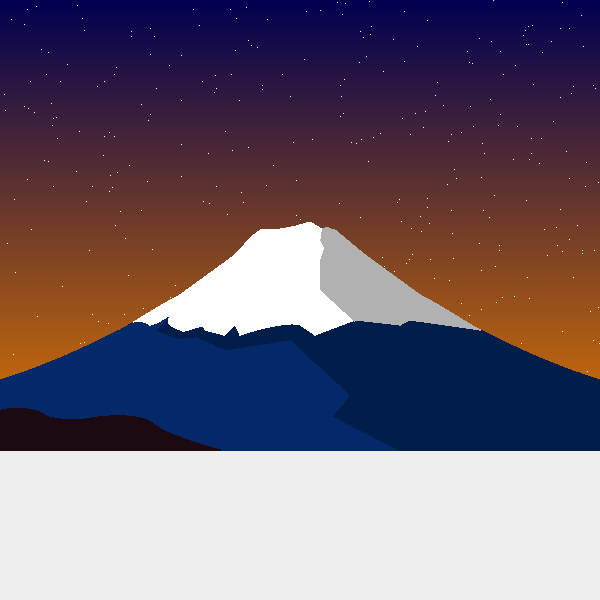
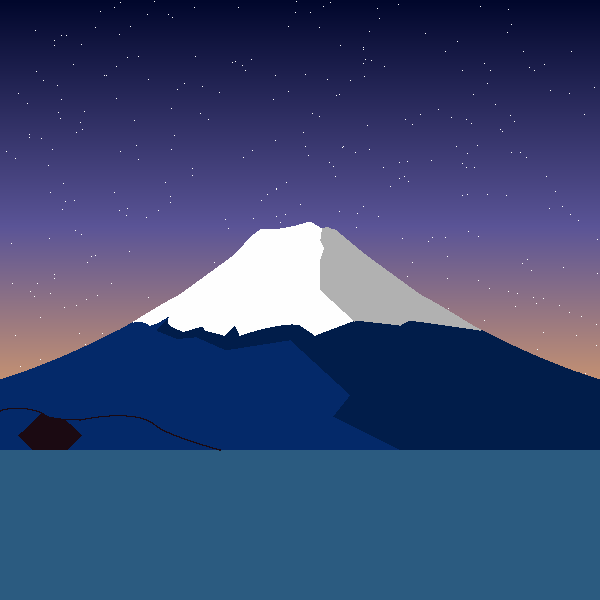
fix GradientFill

diff --git a/NewYear.java b/NewYear.java
@@ -20,13 +20,12 @@ public class NewYear extends JPanel implements MouseListener{
     private static int panelWidth = 600;
     private static int panelHeight = 600;
     private static BufferedImage canvas;
-    //DeleteLalter
-    private static int X = 0;
-    private static int Y = 0;
+
     //DeleteLalter
     NewYear(){
         addMouseListener(this);
     }
+    
     public static void main(String[] args) {
         JFrame f = new JFrame();
         NewYear ny = new NewYear();
@@ -58,7 +57,6 @@ public class NewYear extends JPanel implements MouseListener{
     private void paintImage() {
         canvas = new BufferedImage(panelWidth, panelHeight, BufferedImage.TYPE_INT_ARGB);
         Graphics2D g = canvas.createGraphics();
-
         paintBackground(g);
         paintStar(g);
         paintWater(g);
@@ -67,7 +65,8 @@ public class NewYear extends JPanel implements MouseListener{
     }
 
     private void paintBackground(Graphics g){
-        gradientFill(g, 0, 0, panelWidth, 450, ColorEnum.DAWNSKY.getColor(), ColorEnum.SUNRISE.getColor(), 'V');
+        gradientFill(g, 0, 0, panelWidth, 225, ColorEnum.DARKSKY.getColor(), ColorEnum.MIDDLESKY.getColor(), 'V');
+        gradientFill(g, 0, 225, panelWidth, 450, ColorEnum.MIDDLESKY.getColor(), ColorEnum.SUNRISE.getColor(), 'V');
     }
     
     private void paintStar(Graphics g) {
@@ -84,7 +83,7 @@ public class NewYear extends JPanel implements MouseListener{
     private void paintWater(Graphics2D g) {
         g.setColor(ColorEnum.WATER.getColor());
         drawLine(g,0,450,panelWidth,450);
-        floodFill(g, panelWidth/2, 451, ColorEnum.SKY.getColor(), ColorEnum.WATER.getColor());
+        floodFill(g, panelWidth/2, 451, null, ColorEnum.WATER.getColor());
     }
 
     private void paintFuji(Graphics2D g) {
@@ -109,7 +108,7 @@ public class NewYear extends JPanel implements MouseListener{
         drawCurve(g, 420, 295, 440, 305, 470, 325, 480, 330);
         drawCurve(g, 480, 330, 500, 340, 530, 355, 570, 370);
         drawCurve(g, 570, 370, 570, 370, 600, 380, 600, 380);
-        floodFillBorder(g, panelWidth/2, 340, new Color[]{ColorEnum.SNOW.getColor(),ColorEnum.FUJI.getColor(),ColorEnum.FUJI.getColor().brighter()}, ColorEnum.FUJI.getColor());
+        floodFillBorder(g, panelWidth/2, 340, new Color[]{ColorEnum.WATER.getColor(), ColorEnum.SNOW.getColor(),ColorEnum.FUJI.getColor(),ColorEnum.FUJI.getColor().brighter()}, ColorEnum.FUJI.getColor());
     }
 
     private void drawSnow(Graphics2D g) {
@@ -139,7 +138,7 @@ public class NewYear extends JPanel implements MouseListener{
         fillTriangle(g, 165, 340, 196, 337, 230, 352);
         fillTriangle(g, 220, 351, 290, 340, 350, 395);
         fillTriangle(g, 350, 395, 330, 420, 305, 370);
-        fillTriangle(g, 330, 415, 400, 451, 325, 451);
+        fillTriangle(g, 330, 415, 400, 450, 325, 450);
         floodFill(g, 120, 385, ColorEnum.FUJI.getColor(), ColorEnum.FUJI.getColor().brighter());
 
         //Upper Snow
@@ -167,58 +166,6 @@ public class NewYear extends JPanel implements MouseListener{
     //==================================================================================
     //==================================================================================
 
-    private void drawCurve(Graphics g, int[] x, int[] y){
-        drawCurve(g, x[0], y[0], x[1], y[1], x[2], y[2], x[3], y[3]);
-    }
-    private void drawCurve(Graphics g, int x1,int y1,int x2,int y2, int x3,int y3, int x4,int y4){
-        float sampleAmnt = 100000;
-        for (int i = 0; i < sampleAmnt; i++) {
-            float t = i/sampleAmnt;
-            int x = (int)(Math.pow((1-t), 3)*x1 + 
-                    3*t*Math.pow((1-t), 2)*x2 +
-                    3*t*t*(1-t)*x3+
-                    t*t*t*x4);
-            int y = (int)(Math.pow((1-t), 3)*y1 + 
-                    3*t*Math.pow((1-t), 2)*y2 +
-                    3*t*t*(1-t)*y3+
-                    t*t*t*y4);
-            plot(g, x, y);
-        }
-    }
-
-    private void drawLine(Graphics g, int x1, int y1, int x2, int y2){
-        int dx = Math.abs(x2 - x1);
-        int dy = Math.abs(y2 - y1);
-        int sx = (x1 < x2) ? 1 : -1;
-        int sy = (y1 < y2) ? 1 : -1;
-        boolean isSwap = false;
-        if(dy > dx)
-        {
-            int temp = dx;
-            dx = dy;
-            dy = temp;
-            isSwap = true;
-        }
-        int D = 2 * dy - dx;
-        int x = x1;
-        int y = y1;
-        for (int i = 1; i <= dx; i++){
-            plot(g, x, y);
-            if (D >= 0)
-            {
-                if (isSwap) 
-                    x += sx;
-                else 
-                    y += sy;
-                D -= 2 * dx;
-            }
-            if (isSwap) 
-                y += sy;
-            else 
-                x += sx;
-            D += 2 * dy;
-        }
-    }
 
     private void floodFill(Graphics g,int x, int y, Color targetColor, Color fillColor) {
         int targetRGB = 0;
@@ -292,43 +239,102 @@ public class NewYear extends JPanel implements MouseListener{
     }
 
     private void gradientFill(Graphics g, int x1, int y1, int x2, int y2, Color startColor, Color endColor, char direction) {      
-        int sRColor = startColor.getRed();   int sGColor = startColor.getGreen(); int sBColor = startColor.getBlue();
-        int eRColor = endColor.getRed();     int eGColor = endColor.getGreen();   int eBColor = endColor.getBlue();
+        int startR = startColor.getRed();   
+        int startG = startColor.getGreen(); 
+        int startB = startColor.getBlue();
+    
+        int endR = endColor.getRed();     
+        int endG  = endColor.getGreen();   
+        int endB  = endColor.getBlue();
+    
+        int range;
         if (direction == 'H') {
-            if (x2 > x1) {
-                for (int i = x1; i <= x2; i++) {
-                    g.setColor(new Color((sRColor+i*(eRColor-sRColor)/(x2-x1)), (sGColor+i*(eGColor-sGColor)/(x2-x1)), (sBColor+i*(eBColor-sBColor)/(x2-x1))));
-                    drawLine(g,i, y1, i, y2);
-                }
+            range = x2 - x1;
+            for (int i = x1; i <= x2; i++) {
+                int R = interpolateColor(startR, endR, range, i - x1);
+                int G = interpolateColor(startG, endG, range, i - x1);
+                int B = interpolateColor(startB, endB, range, i - x1);
+                g.setColor(new Color(R, G, B));
+                drawLine(g, i, y1, i, y2);
             }
-            else {
-                for (int i = x2; i <= x1; i++) {
-                    g.setColor(new Color((sRColor+i*(eRColor-sRColor)/(x1-x2)), (sGColor+i*(eGColor-sGColor)/(x1-x2)), (sBColor+i*(eBColor-sBColor)/(x1-x2))));
-                    drawLine(g,i, y1, i, y2);
-                }
-            }     
-        }
-        else if (direction == 'V') {
-            if (y2 > y1) {
-                for (int i = y1; i <= y2; i++) {
-                    g.setColor(new Color((sRColor+i*(eRColor-sRColor)/(y2-y1)), (sGColor+i*(eGColor-sGColor)/(y2-y1)), (sBColor+i*(eBColor-sBColor)/(y2-y1))));
-                    drawLine(g,x1, i, x2, i);
-                }
+        } else if (direction == 'V') {
+            range = y2 - y1;
+            for (int i = y1; i <= y2; i++) {
+                int R = interpolateColor(startR, endR, range, i - y1);
+                int G = interpolateColor(startG, endG, range, i - y1);
+                int B = interpolateColor(startB, endB, range, i - y1);
+                g.setColor(new Color(R, G, B));
+                drawLine(g, x1, i, x2, i);
             }
-            else {
-                for (int i = y2; i <= y1; i++) {
-                    g.setColor(new Color((sRColor+i*(eRColor-sRColor)/(y1-y2)), (sGColor+i*(eGColor-sGColor)/(y1-y2)), (sBColor+i*(eBColor-sBColor)/(y1-y2))));
-                }
-            }  
         }
     }
+    
+    private int interpolateColor(int start, int end, int range, int position) {
+        return clampRGB(start + position * (end - start) / range);
+    }
+    
+    private int clampRGB(int value) {
+        //between 0 - 255 only
+        return Math.max(0, Math.min(value, 255));
+    }
 
-    private void fillTriangle(Graphics g, int[] x, int[] y){
-        g.fillPolygon(x, y, 3);
+    private void drawCircle(Graphics g,int x, int y, int r){
+        drawCurve(g, x-r, y, x-r, (int)Math.round(y-r*(4/3.0)), x+r, (int)Math.round(y-r*(4/3.0)), x+r, y);
+        drawCurve(g, x-r, y, x-r, (int)Math.round(y+r*(4/3.0)), x+r, (int)Math.round(y+r*(4/3.0)), x+r, y);
     }
 
     private void fillTriangle(Graphics g, int x1, int y1, int x2, int y2, int x3, int y3){
         g.fillPolygon(new int[]{x1,x2,x3}, new int[]{y1,y2,y3}, 3);
+    }
+    
+    private void drawCurve(Graphics g, int x1,int y1,int x2,int y2, int x3,int y3, int x4,int y4){
+        float sampleAmnt = 100000;
+        for (int i = 0; i < sampleAmnt; i++) {
+            float t = i/sampleAmnt;
+            int x = (int)(Math.pow((1-t), 3)*x1 + 
+                    3*t*Math.pow((1-t), 2)*x2 +
+                    3*t*t*(1-t)*x3+
+                    t*t*t*x4);
+            int y = (int)(Math.pow((1-t), 3)*y1 + 
+                    3*t*Math.pow((1-t), 2)*y2 +
+                    3*t*t*(1-t)*y3+
+                    t*t*t*y4);
+            plot(g, x, y);
+        }
+    }
+
+    private void drawLine(Graphics g, int x1, int y1, int x2, int y2){
+        int dx = Math.abs(x2 - x1);
+        int dy = Math.abs(y2 - y1);
+        int sx = (x1 < x2) ? 1 : -1;
+        int sy = (y1 < y2) ? 1 : -1;
+        boolean isSwap = false;
+        if(dy > dx)
+        {
+            int temp = dx;
+            dx = dy;
+            dy = temp;
+            isSwap = true;
+        }
+        int D = 2 * dy - dx;
+        int x = x1;
+        int y = y1;
+        for (int i = 1; i <= dx; i++){
+            plot(g, x, y);
+            if (D >= 0)
+            {
+                if (isSwap) 
+                    x += sx;
+                else 
+                    y += sy;
+                D -= 2 * dx;
+            }
+            if (isSwap) 
+                y += sy;
+            else 
+                x += sx;
+            D += 2 * dy;
+        }
     }
 
     private void plot(Graphics g, int x, int y) {
@@ -344,12 +350,7 @@ public class NewYear extends JPanel implements MouseListener{
     //DeleteLalter
     @Override
     public void mousePressed(MouseEvent e) {
-        X = e.getX();
-        Y = e.getY();
-        System.out.println("X Y: (" + X + ", " + Y + ")");
-        System.out.println(canvas.getRGB(X, Y));
-        // TODO Auto-generated method stub
-        //throw new UnsupportedOperationException("Unimplemented method 'mousePressed'");
+        
     }
     //DeleteLalter
     @Override

diff --git a/ColorEnum.java b/ColorEnum.java
@@ -4,8 +4,9 @@ public enum ColorEnum {
         SKY("000000"),//BLACK
         WATER("2B5B80"),//Some Blue
         STAR("FFFFFF"),//Some Violet
-        DAWNSKY("000050"),
-        SUNRISE("E17800"),
+        DARKSKY("01072C"),
+        MIDDLESKY("5A5496"),
+        SUNRISE("F4AD61"),
         FUJI("011D4A"),
         SNOW("FEFEFE"),
         LAND("1B0A12");
